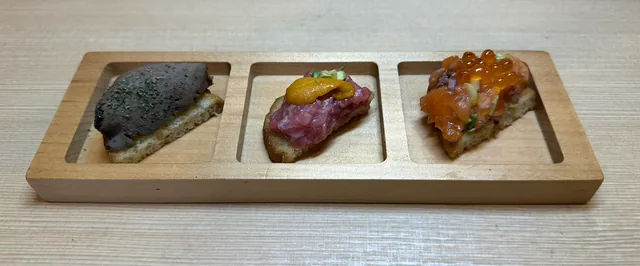
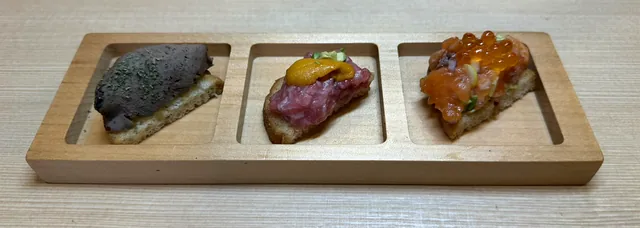
Full-width tsumami strip; nigiri carousel in intro; even out background veil

diff --git a/styles/globals.css b/styles/globals.css
@@ -164,7 +164,7 @@ main {
   pointer-events: none;
   /* お店の内装写真(public/images/bg/interior-1.webp)の上に、文字を読みやすくするための生成り色の膜を重ねる */
   background:
-    linear-gradient(rgba(255, 232, 198, 0.35), rgba(255, 232, 198, 0.35)),
+    linear-gradient(rgba(255, 232, 198, 0.5), rgba(255, 232, 198, 0.5)),
     url("/images/bg/interior-1.webp") center / cover no-repeat;
   background-color: var(--color-bg);
 }
@@ -2581,11 +2581,11 @@ h4.drink-group-title {
 /* 背景の写真は、全ページ共通の1枚（.site-bg＝画面に固定した内装写真）。スクロールしても、スマホでも動かない。
    各ゾーンは、その上に重ねる生成り色の膜だけを持つ（ゾーンごとに色を少し変えて区切りにする）。
    膜を薄くすると写真がはっきり見えるが、文字は読みにくくなる。外観写真はフッターだけに使う（.site-footer）。 */
-.home-zone-1 { background: rgba(255, 226, 184, 0.66); }
-.home-zone-2 { background: rgba(255, 243, 224, 0.72); }
-.home-zone-3 { background: rgba(252, 214, 164, 0.66); }
-.home-zone-4 { background: rgba(255, 238, 214, 0.72); }
-.home-zone-5 { background: rgba(249, 207, 156, 0.66); }
+.home-zone-1 { background: rgba(255, 226, 184, 0.56); }
+.home-zone-2 { background: rgba(255, 243, 224, 0.62); }
+.home-zone-3 { background: rgba(252, 214, 164, 0.56); }
+.home-zone-4 { background: rgba(255, 238, 214, 0.62); }
+.home-zone-5 { background: rgba(249, 207, 156, 0.56); }
 
 /* おつまみコース以外：名前 → サブタイトル → 価格 の順に縦に並べ、②③④で文字の位置を揃える */
 .course-card:not(.course-card--featured) .course-card-head {
@@ -3151,8 +3151,8 @@ h4.drink-group-title {
 
 /* ---- トップ：紹介とお品書きの間の横長写真（画面幅いっぱい。3枚並びの画像が欠けないよう元の比率のまま） ---- */
 .home-strip {
-  width: min(1000px, calc(100% - 32px));
-  margin: 28px auto;
+  width: 100%;
+  margin: 0;
   line-height: 0;
 }
 
@@ -3160,8 +3160,6 @@ h4.drink-group-title {
   display: block;
   width: 100%;
   height: auto;
-  border-radius: var(--radius-sm);
-  box-shadow: var(--shadow-md);
 }
 
 /* ---- メインビジュアルの文字：助詞を小さくしてメリハリをつける ---- */

diff --git a/lib/siteConfig.js b/lib/siteConfig.js
@@ -95,13 +95,13 @@ export const FOOTER_LINKS = [
 // base は拡張子・幅サフィックスなしのパス。{base}.webp / {base}-640.webp / {base}-1024.webp /（bandは-1600も）を置く。
 export const IMAGES = {
   hero: "/images/hero/home-hero", // 推奨 1600×900px（横長）
-  strip: "/images/band/strip-01", // 紹介とお品書きの間に置く横長の写真（1000幅 / -640）
+  strip: "/images/band/strip-01", // 紹介とお品書きの間に置く横長の写真（画面幅いっぱい。1600 / -1024 / -640）
   band: "/images/band/band-01", // 推奨 1600×520px（横長の帯）
   // TODO: お店の紹介の写真（空のあいだは仮表示の枠）。縦書きの見出しの左に並ぶ。
   intro: "/images/intro/intro-01", // 仮の写真（-640 / -870）。本番写真に差し替える。推奨 1200×900px（横長 4:3）
   // 本文の2・3段落目の横に並べる写真（空のあいだは仮表示の枠）。推奨 1200×900px（横長 4:3）
   // [0] 前菜・熟成魚の写真　[1] シャリ・握りの写真　例 "/images/intro/intro-02"
-  // [0] は配列にすると、◀▶ボタンで切り替わるスライドになる。
+  // 配列にすると、◀▶ボタンで切り替わるスライドになる（[1] は握り13枚）。
   introSide: [
     [
       "/images/intro/intro-02",
@@ -110,7 +110,7 @@ export const IMAGES = {
       "/images/intro/intro-02-c",
       "/images/intro/intro-02-e",
     ],
-    "/images/intro/intro-03",
+    Array.from({ length: 13 }, (_, i) => `/images/intro/nigiri-${String(i + 1).padStart(2, "0")}`),
   ],
 };
 

diff --git a/pages/index.js b/pages/index.js
@@ -68,7 +68,7 @@ export default function Home({ jsonLd }) {
               <div key={paragraph} className={`intro-row${i % 2 === 1 ? " intro-row--reverse" : ""}`}>
                 <div className={`intro-photo intro-photo--side${Array.isArray(IMAGES.introSide[i]) ? " intro-photo--tall" : ""}`}>
                   {Array.isArray(IMAGES.introSide[i]) ? (
-                    <PhotoCarousel bases={IMAGES.introSide[i]} label="四季の前菜の写真" />
+                    <PhotoCarousel bases={IMAGES.introSide[i]} label={i === 0 ? "四季の前菜の写真" : "握りの写真"} />
                   ) : (
                     <Photo
                       base={IMAGES.introSide[i]}
@@ -88,7 +88,7 @@ export default function Home({ jsonLd }) {
 
         {/* 横長の写真（lib/siteConfig.js の IMAGES.strip。仮の写真） */}
         <div className="home-strip">
-          <Photo base={IMAGES.strip} widths={[640, 1000]} />
+          <Photo base={IMAGES.strip} widths={[640, 1024, 1600]} />
         </div>
 
         {/* ---- お品書き（おつまみコースを主役に） ---- */}

diff --git a/scripts/process-photos.py b/scripts/process-photos.py
@@ -60,8 +60,7 @@ JOBS = [
     ("intro/intro-02-c", "85688401", 3 / 4, 0.467, 0.495, [720, 480]),  # 灰色の丸皿
     ("intro/intro-02-f", "85688378", 3 / 4, 0.5, 0.5, [720, 480]),  # 金色の三日月の器（斜めに寄った写真）
     ("intro/intro-02-e", "85696563", 3 / 4, 0.458, 0.50, [720, 480]),  # 花形の小鉢
-    ("intro/intro-03", "85696617", 4 / 3, 0.5, 0.52, [870, 640]),   # 握り
-    ("band/strip-01", "85688384", 2.4, 0.5, 0.52, [1000, 640]),  # 横長の帯（おつまみ三種）
+    ("band/strip-01", "85688384", 2.8, 0.5, 0.52, [1600, 1024, 640]),  # 横長の帯（おつまみ三種）
 ]
 # 単品の寿司（メニューの横スライド）。並び順＝掲載順
 SUSHI = ["85696611", "85696670", "85696616", "85696617", "85696621", "85696628", "85696630",
@@ -69,6 +68,10 @@ SUSHI = ["85696611", "85696670", "85696616", "85696617", "85696621", "85696628",
 
 # 背景用: (出力名, 元写真)  外観2種・店内1種
 BG = [("exterior-2", "85696727"), ("interior-1", "85696600")]
+
+# 「熟成と赤酢のシャリ」の切り替え写真（握り）。大トロ→…の順
+NIGIRI = ["85696617", "85696616", "85696621", "85696611", "85696670", "85696628", "85696630",
+          "85696660", "85696680", "85696682", "85696632", "85696633", "85696708"]
 
 
 def plate_box(im):
@@ -102,6 +105,19 @@ def sushi_square(im, fill=0.86, target_luma=150):
     return ImageEnhance.Brightness(sq).enhance(k)
 
 
+def sushi_portrait(im, fill=0.86, target_luma=150):
+    """皿の大きさ・位置・明るさをそろえた縦長(3:4)の切り抜き。切り替えても目線が動かない"""
+    pw, cx, cy = plate_box(im)
+    w = int(min(pw / fill, im.width, im.height * 3 / 4))
+    h = int(w * 4 / 3)
+    x = min(max(int(cx - w / 2), 0), im.width - w)
+    y = min(max(int(cy - h * 0.5), 0), im.height - h)
+    cr = im.crop((x, y, x + w, y + h))
+    luma = sum(ImageOps.grayscale(cr.resize((64, 64))).tobytes()) / 4096
+    k = min(max(target_luma / luma, 0.9), 1.15)
+    return ImageEnhance.Brightness(cr).enhance(k)
+
+
 if __name__ == "__main__":
     for base, num, ratio, cx, cy, widths in JOBS:
         im = enhance(crop_ratio(load(num), ratio, cx, cy, ZOOM.get(base, 1.0)))
@@ -113,6 +129,12 @@ if __name__ == "__main__":
         im = enhance(sushi_square(load(num)))
         save(im, f"menu/sushi-{i:02d}.webp", 900, q=80)
     print("sushi", len(SUSHI))
+    for i, num in enumerate(NIGIRI, 1):
+        im = enhance(sushi_portrait(load(num)))
+        save(im, f"intro/nigiri-{i:02d}.webp", 720, q=80)
+        save(im, f"intro/nigiri-{i:02d}-480.webp", 480, q=80)
+        save(im, f"intro/nigiri-{i:02d}-720.webp", 720, q=80)
+    print("nigiri", len(NIGIRI))
     # サイトの背景（お店の外観・内装）。文字が読めるよう、CSS側で生成り色の膜を重ねる
     for name, num in BG:
         im = enhance(load(num), b=1.04, c=1.0, s=1.0)
